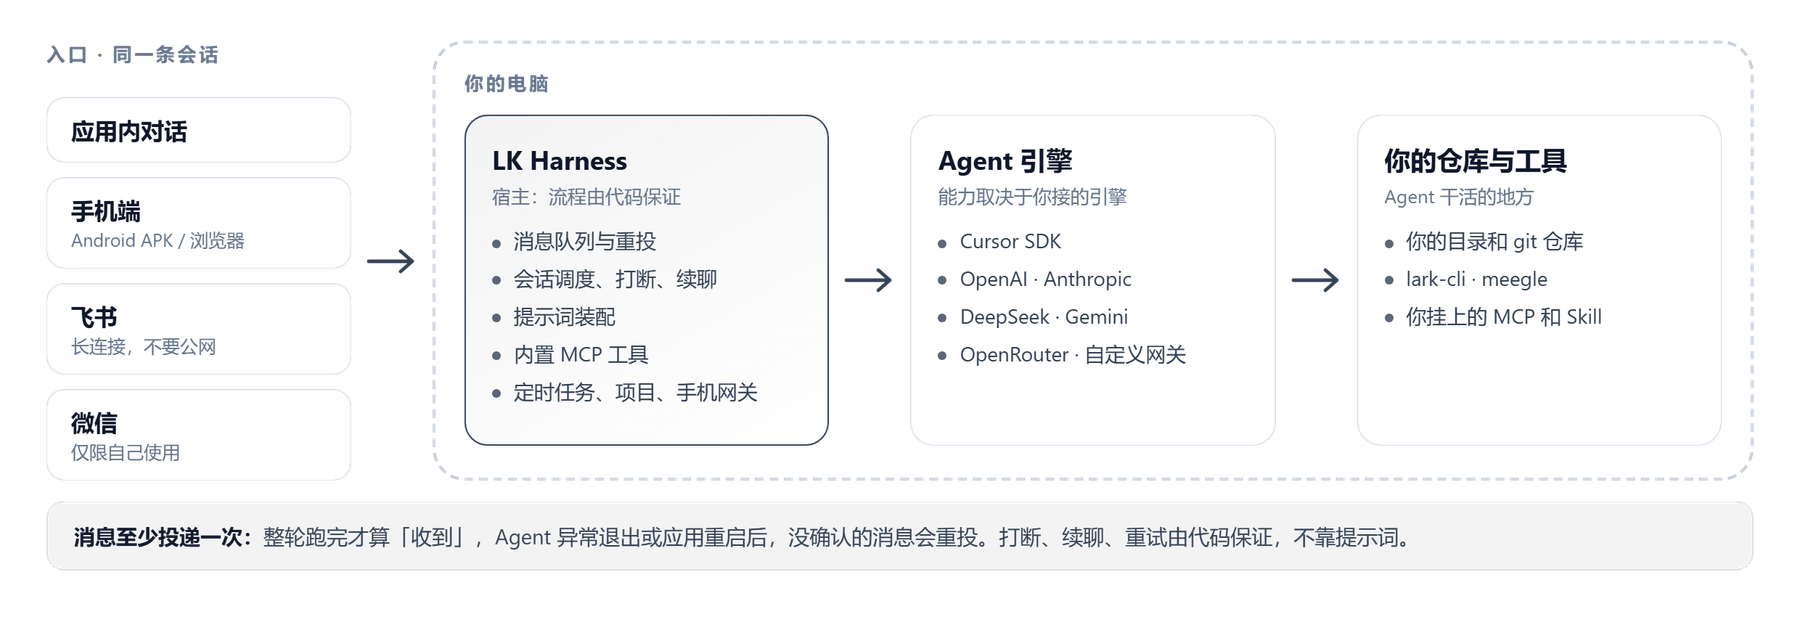
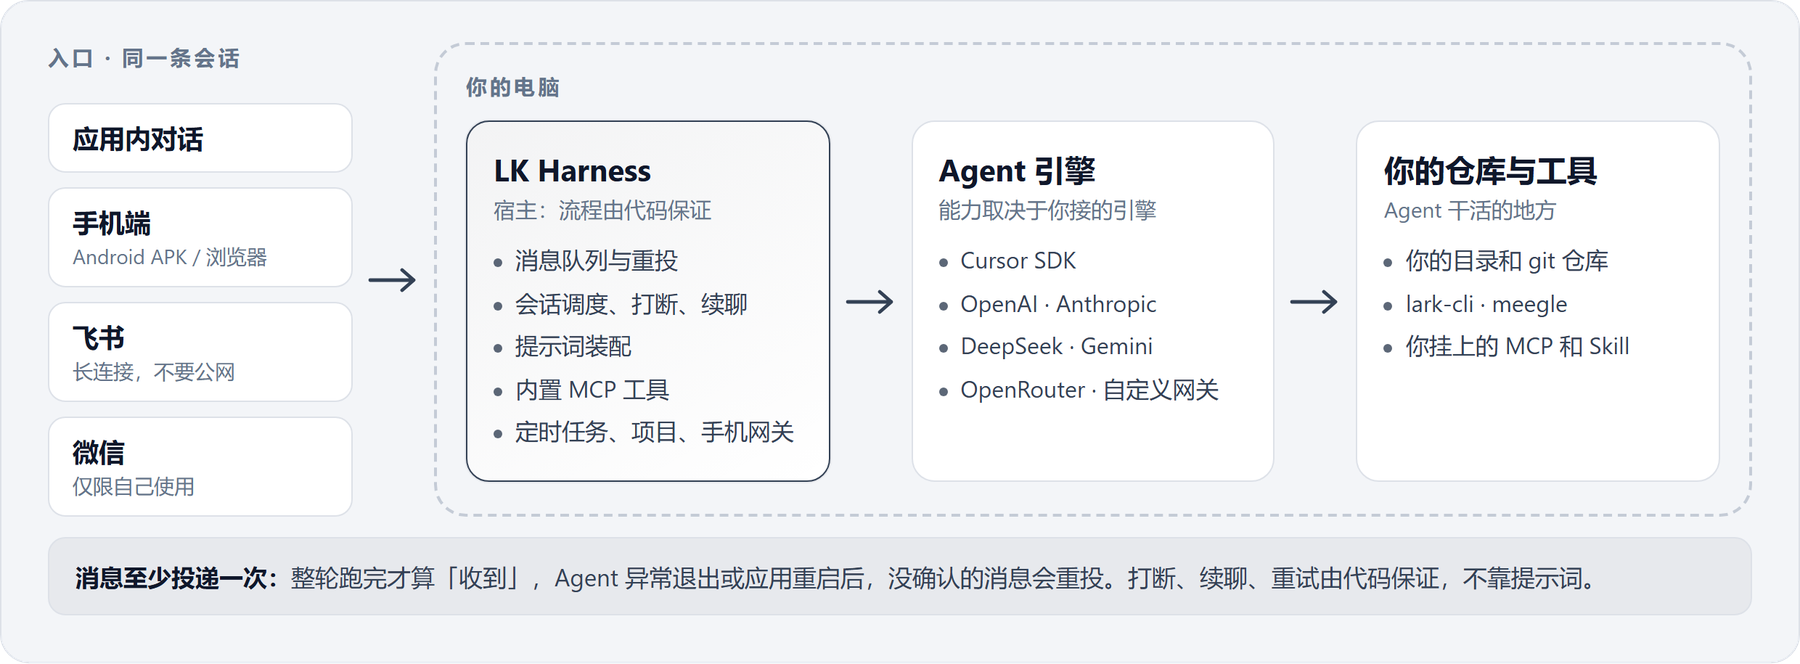
docs: README 的介绍图深浅色并列显示，架构图和飞书图自带底色
- README：桌面端、手机端两张图深色、浅色上下并列，不再用 picture 按系统配色二选一；
  飞书图和工作原理图只放浅色版
- 架构图、飞书图加不透明圆角底板，说明文字放在底板上，深浅色页面上都看得清；
  图内字号放大一档
- 官网：飞书图高度属性跟随新尺寸（1334 -> 1420）
- 删除不再使用的 architecture-dark.png

diff --git a/docs/harness-site/index.html b/docs/harness-site/index.html
@@ -303,9 +303,9 @@
       <p class="desc">Agent 干活的过程实时更新在同一张卡片上：思考和工具调用折叠成一行，点开才看细节。要拿主意时出问题卡，点一下它就继续。</p>
       <figure class="shot wide">
         <div class="scroll-x">
-          <img class="only-dark" src="img/feishu-dark.png" width="1800" height="1334" loading="lazy"
+          <img class="only-dark" src="img/feishu-dark.png" width="1800" height="1420" loading="lazy"
                alt="飞书消息卡片示意图：左边是 Agent 干活时的卡片，思考和工具调用折叠成一行，展开后每步工具带 Running 或 Succeeded 状态，下面是待选择的问题卡；右边是点选之后，问题卡变成已作答，下面是回复正文和页脚">
-          <img class="only-light" src="img/feishu-light.png" width="1800" height="1334" loading="lazy"
+          <img class="only-light" src="img/feishu-light.png" width="1800" height="1420" loading="lazy"
                alt="飞书消息卡片示意图：左边是 Agent 干活时的卡片，思考和工具调用折叠成一行，展开后每步工具带 Running 或 Succeeded 状态，下面是待选择的问题卡；右边是点选之后，问题卡变成已作答，下面是回复正文和页脚">
         </div>
         <figcaption>飞书里的消息卡片。这是按真实卡片结构绘制的示意图，不是飞书界面截图。</figcaption>
